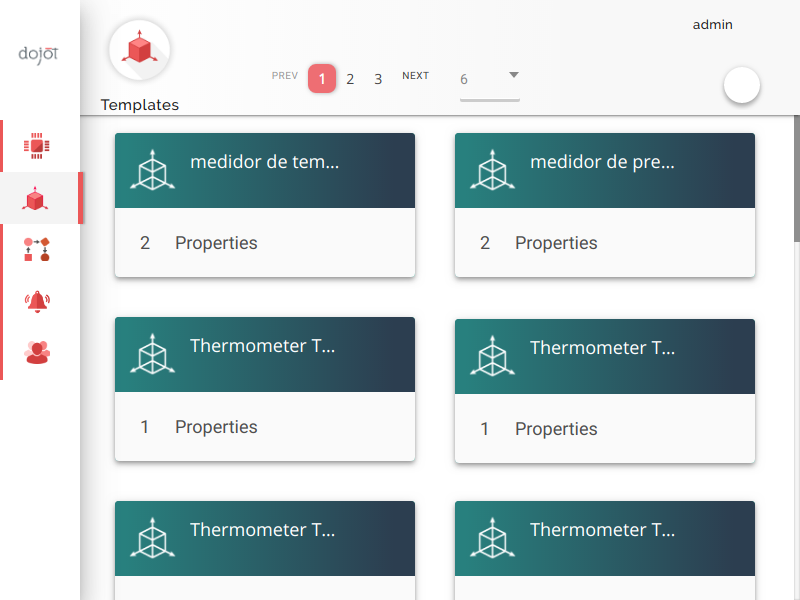
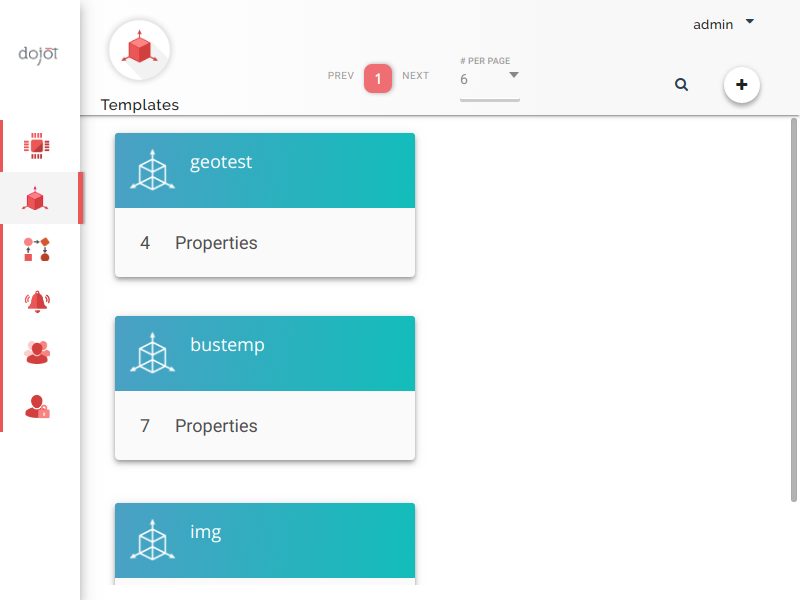
add actor for add attr in template

diff --git a/template_creation_test.js b/template_creation_test.js
@@ -1,3 +1,5 @@
+/*import  attrTest from 'Types';*/
+const { attrType, attrValueType } = require('./Types');
 
 Feature('Template creation');
 
@@ -6,16 +8,18 @@ Before(login => {
 });
 
 Scenario('Creating a simple template', async (I) => {
-    I.click('Templates');
+    I.click(locate('a').withAttr({ href: '#/template/list' }));
     I.click(locate('div').withAttr({ title: 'Create a new template' }));
-    I.fillField('Template Name', 'Custom template');
-    I.click(locate('.body-actions--button').first());
-    within('.sidebar-attribute', () => {
-        I.fillField(locate('input').first(), 'temperature');
-        I.selectOption(locate('select').withAttr({ name: 'type' }), 'Dynamic Value');
-        I.selectOption(locate('select').withAttr({ name: 'value_type' }), 'Integer');
-        I.click('add');
-    });
-    I.click('add');
-    I.see('Custom template');
+    I.fillField('Template Name', 'Temp1');
+
+/*    I.addAttrTemplate('int', attrType.dynamic, attrValueType.integer);
+    I.addAttrTemplate('bool', attrType.dynamic, attrValueType.boolean);
+    I.addAttrTemplate('number', attrType.dynamic, attrValueType.float);
+    I.addAttrTemplate('gps', attrType.dynamic, attrValueType.geo);
+    I.addAttrTemplate('text', attrType.dynamic, attrValueType.string);*/
+
+    I.addAttrTemplate('text', attrType.static, attrValueType.string, 'value of text');
+
+    I.click('Save');
+    I.see('Template created.');
 });

diff --git a/steps_file.js b/steps_file.js
@@ -1,11 +1,27 @@
-
 // in this file you can append custom step methods to 'I' object
+const {attrType: constAttrType} = require('./Types');
 
-module.exports = function() {
-  return actor({
+module.exports = function () {
+    return actor({
 
-    // Define custom steps here, use 'this' to access default methods of I.
-    // It is recommended to place a general 'login' function here.
-
-  });
+        /**
+         *
+         * @param fieldValue
+         * @param attrType
+         * @param attrValueType
+         * @param value
+         */
+        addAttrTemplate: function (fieldValue, attrType, attrValueType, value = '') {
+            this.click(locate('.body-actions--button div').withText('New Attribute'));
+            within('.sidebar-attribute', () => {
+                this.fillField(locate('input').first(), fieldValue);
+                this.selectOption(locate('select').withAttr({name: 'type'}), attrType);
+                this.selectOption(locate('select').withAttr({name: 'value_type'}), attrValueType);
+                if (attrType !== constAttrType.dynamic && value ) {
+                    this.fillField(locate('input').withAttr({ name: 'static_value' }), value);
+                }
+                this.click('Add');
+            });
+        }
+    });
 }

diff --git a/codecept.conf.js b/codecept.conf.js
@@ -17,8 +17,8 @@ exports.config = {
         handleSIGTERM: false,
         handleSIGHUP: false,
         defaultViewport: {
-          width: 1920,
-          height: 1080
+          width: 800,
+          height: 600
         },
       },
     }
@@ -29,7 +29,7 @@ exports.config = {
   plugins: {
     autoLogin: {
       enabled: true,
-      saveToFile: true,
+      saveToFile: false,
       inject: 'login',
       users: {
         admin: {

diff --git a/Types.js b/Types.js
@@ -1,0 +1,15 @@
+const attrType = {
+    dynamic: 'Dynamic Value',
+    static: 'Static Value',
+    actuator: 'Actuator',
+};
+
+const attrValueType = {
+    boolean: 'Boolean',
+    geo: 'Geo',
+    float: 'Float',
+    integer: 'Integer',
+    string: 'String',
+};
+
+module.exports = {attrType, attrValueType};
